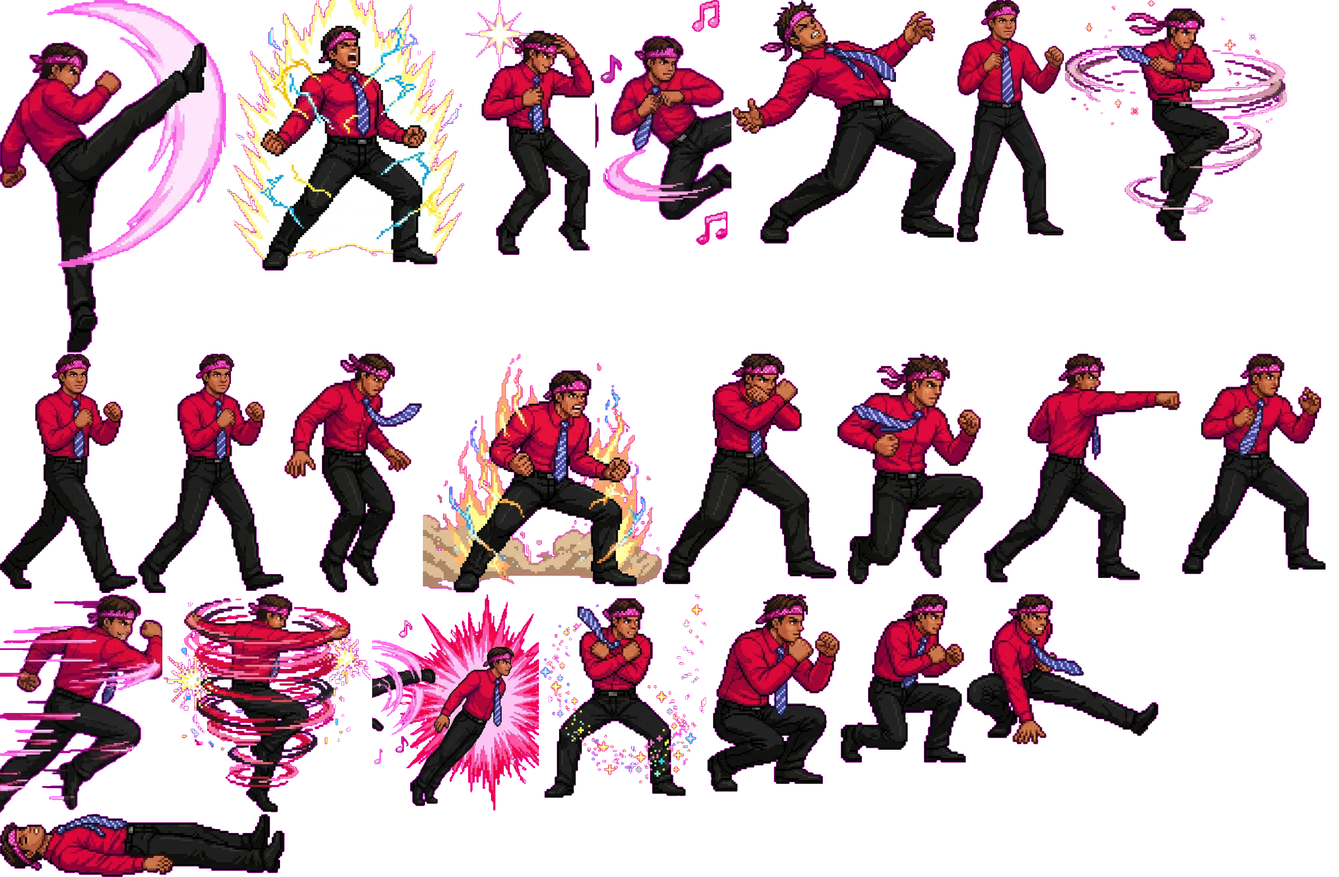
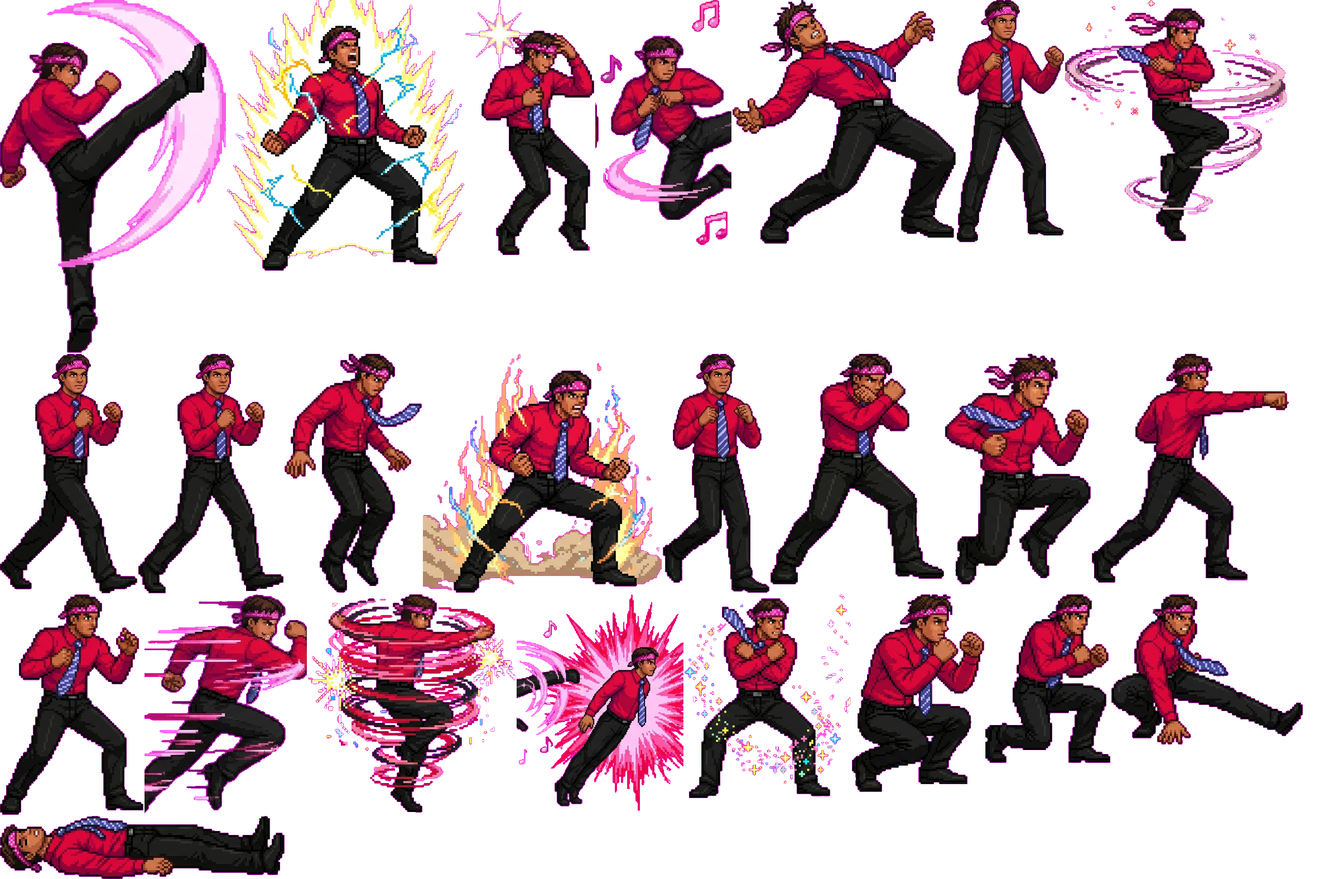
recarga de energía y paso lunar

diff --git a/game-v4.js b/game-v4.js
@@ -3,8 +3,8 @@ const $=s=>document.querySelector(s),canvas=$('#game'),ctx=canvas.getContext('2d
 const W=960,H=540,WORLD=1280,FLOOR=464,STEP=1/60,NAMES=['LANCHA','EL FIEL','KENT','PINGORDY'];
 const held=new Set(),pressed=new Set(),lastPad=[{},{}];
 const MAPS=[
- {left:'KeyA',right:'KeyD',jump:'KeyW',crouch:'KeyS',block:'KeyH',punch:'KeyJ',kick:'KeyK',overhead:'KeyU',special:'KeyL',super:'KeyI'},
- {left:'ArrowLeft',right:'ArrowRight',jump:'ArrowUp',crouch:'ArrowDown',block:'Numpad4',punch:'Numpad1',kick:'Numpad2',overhead:'Numpad5',special:'Numpad3',super:'Numpad0'}
+ {left:'KeyA',right:'KeyD',jump:'KeyW',crouch:'KeyS',block:'KeyH',punch:'KeyJ',kick:'KeyK',overhead:'KeyU',special:'KeyL',super:'KeyI',charge:'KeyO'},
+ {left:'ArrowLeft',right:'ArrowRight',jump:'ArrowUp',crouch:'ArrowDown',block:'Numpad4',punch:'Numpad1',kick:'Numpad2',overhead:'Numpad5',special:'Numpad3',super:'Numpad0',charge:'Numpad6'}
 ];
 // Hit rectangles are relative to the fighter's feet. Heights are positive up.
 const MOVES={
@@ -22,9 +22,14 @@ const MOVES={
 // Dash: double-tap a direction. Invulnerable only at the start, then a cooldown so it cannot be spammed.
 const DASH={time:.22,fwd:860,back:780,invulnerable:.16,cooldown:.6,window:.26,peak:215};
 // Crouch + double-tap: roll through the rival. Lancha curls into a ball, El Fiel does an athletic flip (drawn by transforming existing sprites).
+// Pingordy's dash is a moonwalk: slower glide so the footwork reads, facing the rival, steps reversed against the travel direction.
+const DASH_CHAR={3:{time:.36,fwd:500,back:470,invulnerable:.2}};
+function dashOf(p){return DASH_CHAR[p.id]||DASH}
+// Energy recharge: hold the button standing still; after a short wind-up the bar fills at `rate` per second.
+const CHARGE={startup:.3,rate:20};
 const ROLL=[{dur:.55,inv:.32,spins:2,scale:.85,arc:0,label:'¡RODADA!'},{dur:.65,inv:.42,spins:1,scale:.9,arc:95,label:'¡VOLTERETA!'},{dur:.65,inv:.42,spins:1,scale:.9,arc:95,label:'¡VOLTERETA!'},{dur:.65,inv:.42,spins:1,scale:.9,arc:95,label:'¡TORNADO!'}];
 let selected=0,mode='cpu',difficulty='normal',state='menu',paused=false,players=[],projectiles=[],particles=[],floaters=[];
-let round=1,clock=75,phaseTime=0,banner='',shake=0,freeze=0,acc=0,prev=0,tick=0,muted=false,audio,ready=false,bg,sprites=[],extraSprites=[],followSprites=[],showSprites=[],rollSprites=[],fielRoll=[],fielRollK=1,kentFrames={},pingFrames={},ljFrames={},fielSuper={},portrait=[];
+let round=1,clock=75,phaseTime=0,banner='',shake=0,freeze=0,acc=0,prev=0,tick=0,muted=false,audio,ready=false,bg,sprites=[],extraSprites=[],followSprites=[],showSprites=[],rollSprites=[],fielRoll=[],fielRollK=1,kentFrames={},pingFrames={},ljFrames={},lcFrames={},fielSuper={},portrait=[];
 const INTRO_DURATION=4.4,camera={x:WORLD/2,y:300,zoom:1.02};
 let superFX=null,reducedFX=false,ghosts=[],rings=[],introElapsed=0,fxClock=0;
 const POWER_NAMES=['BARRIGA DE LA RISA','RÁFAGA DEL POLO','PATADA DE FUEGO','TORNADO ESPIRAL'],INTRO_TEXT=['¡JA, JA, JA!','SIEMPRE FIEL','¡VAMOS!','¡HORA DE PELEAR!'];
@@ -48,14 +53,15 @@ function buildKent(atlas){for(const [name,m] of Object.entries(KENT_ATLAS)){cons
 // El Fiel's ultimate: backswing/swing frames (two variants), stored at 2x game size like Kent's atlas.
 const FIEL_SUPER_ATLAS={"backA":[0,0,239,505,0.683],"swingA":[241,91,394,414,0.395],"backB":[637,120,228,385,0.578],"swingB":[867,136,369,369,0.425]};
 // Characters drawn from their own atlas (Kent, Pingordy): same pose logic, one named frame per state.
-const PING_ATLAS={"mid":[0,0,405,632,0.187],"charge":[407,0,425,485,0.47],"introB":[834,0,231,457,0.495],"airKick":[1067,0,244,439,0.509],"hurt":[1313,0,400,437,0.373],"idle":[1715,0,192,434,0.427],"win":[1909,0,398,432,0.485],"walkA":[0,634,246,429,0.537],"walkB":[248,634,260,429,0.535],"jumpDown":[510,634,246,428,0.41],"introA":[758,634,428,428,0.524],"guard":[1188,634,311,413,0.453],"jumpUp":[1501,634,261,413,0.484],"punch":[1764,634,353,410,0.409],"overheadPrep":[2119,634,257,395,0.512],"superA":[0,1065,291,392,0.485],"flipSpin":[293,1065,372,391,0.489],"superB":[667,1065,299,388,0.623],"special":[968,1065,298,365,0.453],"crouch":[1268,1065,237,354,0.478],"low":[1507,1065,224,302,0.562],"sweep":[1733,1065,343,269,0.25],"down":[0,1459,510,113,0.496]};
+const PING_ATLAS={"mid":[0,0,405,632,0.187],"charge":[407,0,425,485,0.47],"introB":[834,0,231,457,0.495],"airKick":[1067,0,244,439,0.509],"hurt":[1313,0,400,437,0.373],"idle":[1715,0,192,434,0.427],"win":[1909,0,398,432,0.485],"walkA":[0,634,246,429,0.537],"walkB":[248,634,260,429,0.535],"jumpDown":[510,634,246,428,0.41],"introA":[758,634,428,428,0.524],"walkC":[1188,634,191,428,0.479],"guard":[1381,634,311,413,0.453],"jumpUp":[1694,634,261,413,0.484],"punch":[1957,634,353,410,0.409],"overheadPrep":[0,1065,257,395,0.512],"superA":[259,1065,291,392,0.485],"flipSpin":[552,1065,372,391,0.489],"superB":[926,1065,299,388,0.623],"special":[1227,1065,298,365,0.453],"crouch":[1527,1065,237,354,0.478],"low":[1766,1065,224,302,0.562],"sweep":[1992,1065,343,269,0.25],"down":[0,1462,510,113,0.496]};
 // Lancha's jump frames: crouch, up, dive (double jump), prone (landing after the dive), fall.
 const LJ_ATLAS={"up":[0,0,249,428,0.472],"fall":[251,0,272,403,0.55],"crouch":[525,0,232,332,0.47],"dive":[759,0,471,315,0.444],"prone":[1232,0,357,200,0.426]};
-const SETS=[null,null,{frames:kentFrames,scale:.85,extra:{introA:1.15,introB:1.15}},{frames:pingFrames,scale:1,extra:{introA:1.2,introB:1.2,win:1.2}}];
+const LC_ATLAS={"flex":[0,0,256,445,0.533],"bite":[258,0,207,441,0.441],"chew":[467,0,221,438,0.42],"ready":[690,0,241,430,0.431]};
+const SETS=[null,null,{frames:kentFrames,scale:.85,extra:{introA:1.15,introB:1.15},charge:['overheadPrep','overheadHit']},{frames:pingFrames,scale:1,extra:{introA:1.2,introB:1.2,win:1.2,charge:1.2},charge:['introA','charge']}];
 const FALLBACK={airKick:'flipSpin',flipTuck:'flipSpin',overheadHit:'punch',overheadPrep:'idle',crouchHurt:'hurt',landing:'crouch',special:'mid',superB:'superA',introB:'introA'};
 function resolvePose(id,name){const f=SETS[id].frames;while(!f[name]&&FALLBACK[name])name=FALLBACK[name];return name}
 function buildFielSuper(atlas){for(const [name,m] of Object.entries(FIEL_SUPER_ATLAS)){const c=document.createElement('canvas');c.width=m[2];c.height=m[3];c.getContext('2d').drawImage(atlas,m[0],m[1],m[2],m[3],0,0,m[2],m[3]);fielSuper[name]={image:c,height:m[3],anchor:m[4]}}}
-async function load(){try{const [arena,atlas,poses,follow,show,lancha,fiel,roll,flipPrep,flip,kentAtlas,superAtlas,pingAtlas,ljAtlas]=await Promise.all([image('assets/arena.png'),image('assets/fighters.png'),image('assets/moves-v3.png'),image('assets/follow-v3.png'),image('assets/show-v4.png'),image('assets/lancha-face.png'),image('assets/fiel-face.png'),image('assets/roll-lancha.webp'),image('assets/flip-fiel-prep.png'),image('assets/flip-fiel.png'),image('assets/kent.png'),image('assets/fiel-super.png'),image('assets/pingordy.png'),image('assets/lancha-jump.png')]);bg=arena;portrait=[lancha,fiel];const a=keyedCanvas(atlas),cuts=[[0,0,238,468],[240,0,240,468],[482,0,309,468],[785,0,290,468],[1062,0,225,468],[1280,0,256,468],[0,490,238,480],[240,490,235,480],[470,490,311,480],[780,490,294,480],[1028,490,276,480],[1295,490,241,480]];sprites=cuts.map(c=>crop(a,...c));extraSprites=extractPoses(poses);followSprites=extractPoses(follow,4);showSprites=extractPoses(show,4);rollSprites=extractPoses(roll,5);fielRoll=[...extractRow(flipPrep,1),...extractRow(flip,4)];fielRollK=258*.95/fielRoll[4].height;buildKent(kentAtlas);buildFielSuper(superAtlas);cutAtlas(pingAtlas,PING_ATLAS,pingFrames);cutAtlas(ljAtlas,LJ_ATLAS,ljFrames);ready=true;$('#status').textContent='v0.4 · Salto y patada aérea con poses distintas · Patada baja sin derribo · Cámara dinámica · Super cinematográfico.';}catch(e){$('#status').textContent=e.message+' · Usa el HTML autónomo o un servidor local.';console.error(e)}}
+async function load(){try{const [arena,atlas,poses,follow,show,lancha,fiel,roll,flipPrep,flip,kentAtlas,superAtlas,pingAtlas,ljAtlas,lcAtlas]=await Promise.all([image('assets/arena.png'),image('assets/fighters.png'),image('assets/moves-v3.png'),image('assets/follow-v3.png'),image('assets/show-v4.png'),image('assets/lancha-face.png'),image('assets/fiel-face.png'),image('assets/roll-lancha.webp'),image('assets/flip-fiel-prep.png'),image('assets/flip-fiel.png'),image('assets/kent.png'),image('assets/fiel-super.png'),image('assets/pingordy.png'),image('assets/lancha-jump.png'),image('assets/lancha-charge.png')]);bg=arena;portrait=[lancha,fiel];const a=keyedCanvas(atlas),cuts=[[0,0,238,468],[240,0,240,468],[482,0,309,468],[785,0,290,468],[1062,0,225,468],[1280,0,256,468],[0,490,238,480],[240,490,235,480],[470,490,311,480],[780,490,294,480],[1028,490,276,480],[1295,490,241,480]];sprites=cuts.map(c=>crop(a,...c));extraSprites=extractPoses(poses);followSprites=extractPoses(follow,4);showSprites=extractPoses(show,4);rollSprites=extractPoses(roll,5);fielRoll=[...extractRow(flipPrep,1),...extractRow(flip,4)];fielRollK=258*.95/fielRoll[4].height;buildKent(kentAtlas);buildFielSuper(superAtlas);cutAtlas(pingAtlas,PING_ATLAS,pingFrames);cutAtlas(ljAtlas,LJ_ATLAS,ljFrames);cutAtlas(lcAtlas,LC_ATLAS,lcFrames);ready=true;$('#status').textContent='v0.4 · Salto y patada aérea con poses distintas · Patada baja sin derribo · Cámara dinámica · Super cinematográfico.';}catch(e){$('#status').textContent=e.message+' · Usa el HTML autónomo o un servidor local.';console.error(e)}}
 function fighter(id,x){return{id,x,y:0,vy:0,vx:0,hp:100,hpTrail:100,energy:50,wins:0,face:x<WORLD/2?1:-1,action:'idle',age:0,move:null,hit:false,stun:0,guard:false,crouched:false,stance:0,walk:false,cooldown:0,combo:0,comboTime:0,ai:0,aiInput:{},seq:0,flash:0,downTime:0,invulnerable:0,buffer:null,bufferTime:0,lastLevel:'',levelTime:0,landTime:0,ghostTime:0,dashCool:0,dashDir:0,prevDir:{},tapAt:{left:-9,right:-9},jumpAt:-9,leap:false}}
 function pickRival(){if(rivalSel!=='auto')return rivalSel;const o=[...NAMES.keys()].filter(i=>i!==selected);return o[Math.floor(Math.random()*o.length)]}
 function start(){if(!ready)return;mode=$('#mode').value;difficulty=$('#difficulty').value;players=[fighter(selected,420),fighter(pickRival(),860)];round=1;paused=false;$('#menu').classList.add('hidden');canvas.focus();audio?.resume();sound(440,.15);beginRound()}
@@ -84,7 +90,7 @@ document.querySelectorAll('[data-key]').forEach(b=>{b.onpointerdown=e=>{e.preven
 // Standard-mapping pads (Xbox / DualShock / DualSense): the first connected pad drives P1, the second P2.
 const sys={};
 function pads(){return[...(navigator.getGamepads?.()??[])].filter(g=>g?.connected)}
-function input(i){const out={},pad=pads()[i],b=n=>!!pad?.buttons[n]?.pressed,ax=n=>pad?.axes[n]??0,values={left:ax(0)<-.3||b(14),right:ax(0)>.3||b(15),jump:b(0)||b(12)||ax(1)<-.6,crouch:ax(1)>.4||b(13),block:b(4)||b(6),punch:b(2),kick:b(1),overhead:b(7),special:b(3),super:b(5)};for(const [a,k]of Object.entries(MAPS[i])){out[a]=held.has(k)||values[a];out[a+'Press']=pressed.has(k)||values[a]&&!lastPad[i][a]}lastPad[i]={...values};return out}
+function input(i){const out={},pad=pads()[i],b=n=>!!pad?.buttons[n]?.pressed,ax=n=>pad?.axes[n]??0,values={left:ax(0)<-.3||b(14),right:ax(0)>.3||b(15),jump:b(0)||b(12)||ax(1)<-.6,crouch:ax(1)>.4||b(13),block:b(4),charge:b(6),punch:b(2),kick:b(1),overhead:b(7),special:b(3),super:b(5)};for(const [a,k]of Object.entries(MAPS[i])){out[a]=held.has(k)||values[a];out[a+'Press']=pressed.has(k)||values[a]&&!lastPad[i][a]}lastPad[i]={...values};return out}
 // Menu, pause and navigation with any connected pad (edge-triggered; Options = start/pause, Share = back to menu).
 function padMenu(){const list=pads(),btn=n=>list.some(g=>g.buttons[n]?.pressed),axis=n=>list.reduce((m,g)=>Math.abs(g.axes[n]??0)>Math.abs(m)?g.axes[n]:m,0),
  now={left:btn(14)||axis(0)<-.5,right:btn(15)||axis(0)>.5,up:btn(12)||axis(1)<-.5,down:btn(13)||axis(1)>.5,prev:btn(4),next:btn(5),l2:btn(6),r2:btn(7),ok:btn(0),start:btn(9),back:btn(8)},hit=k=>now[k]&&!sys[k];
@@ -95,9 +101,9 @@ function padMenu(){const list=pads(),btn=n=>list.some(g=>g.buttons[n]?.pressed),
  Object.assign(sys,now)}
 function padBadge(){const el=$('#pad'),list=pads(),g=list[0];if(!el)return;el.classList.toggle('on',!!g);el.textContent=g?'🎮 '+(/054c/i.test(g.id)?'DualShock / DualSense':g.id.replace(/\s*\(.*$/,''))+(list.length>1?' + '+(list.length-1):'')+(g.mapping==='standard'?'':' · mapeo no estándar'):'🎮 Pulsa un botón del mando'}
 addEventListener('gamepadconnected',padBadge);addEventListener('gamepaddisconnected',()=>{padBadge();if(state==='fight')paused=true});
-function aiInput(p,o,dt){p.ai-=dt;if(p.ai>0){const out={...p.aiInput};for(const key of ['punch','kick','overhead','special','super','jump'])out[key+'Press']=false;return out}const hard=difficulty==='hard',easy=difficulty==='easy',d=Math.abs(o.x-p.x),r=Math.random(),a={};p.ai=easy?.42:hard?.17:.28;
+function aiInput(p,o,dt){if(p.aiCharge>0){p.aiCharge-=dt;if(Math.abs(o.x-p.x)>230&&p.energy<100&&o.action!=='attack')return{charge:true};p.aiCharge=0}p.ai-=dt;if(p.ai>0){const out={...p.aiInput};for(const key of ['punch','kick','overhead','special','super','jump'])out[key+'Press']=false;return out}const hard=difficulty==='hard',easy=difficulty==='easy',d=Math.abs(o.x-p.x),r=Math.random(),a={};p.ai=easy?.42:hard?.17:.28;
  if(d>140){a.left=p.x>o.x;a.right=p.x<o.x;if(p.id>0&&d>230&&r<.27)a.specialPress=true}else if(o.action==='attack'&&r<(hard?.75:.42)){a.block=true;a.crouch=o.move?.level==='low'}else if(r<.27){a.punchPress=true;a.crouch=Math.random()<.3}else if(r<.56){a.kickPress=true;a.crouch=Math.random()<.36}else if(r<.72)a.overheadPress=true;else a.specialPress=true;
- if(p.energy>=100&&r<.22)a.superPress=true;const shot=projectiles.find(s=>s.owner!==p&&Math.sign(s.vx)===Math.sign(p.x-s.x)),gap=shot?Math.abs(shot.x-p.x):0;if(shot&&gap>90&&gap<230&&Math.random()<(hard?.85:easy?.3:.6)){a.left=a.right=false;a.jumpPress=true;a.jump=true}p.aiInput={...a};return a;}
+ if(p.energy>=100&&r<.22)a.superPress=true;const shot=projectiles.find(s=>s.owner!==p&&Math.sign(s.vx)===Math.sign(p.x-s.x)),gap=shot?Math.abs(shot.x-p.x):0;if(shot&&gap>90&&gap<230&&Math.random()<(hard?.85:easy?.3:.6)){a.left=a.right=false;a.jumpPress=true;a.jump=true}if(!easy&&p.energy<35&&d>320&&r<.1&&!shot){p.aiCharge=2.5;return{charge:true}}p.aiInput={...a};return a;}
 function trainingInput(){const v=$('#trainingGuard')?.value??'idle';return v==='stand'?{block:true}:v==='crouch'?{crouch:true}:v==='lowguard'?{block:true,crouch:true}:v==='jump'?{jumpPress:true}:{};}
 function enqueue(p,a){for(const key of ['super','special','overhead','kick','punch','jump'])if(a[key+'Press']){p.buffer=key;p.bufferTime=.16;break}}
 function chooseMove(p,key){if(key==='super')return p.y===0?'super':null;if(key==='special')return p.y===0?(p.id===0?'belly':'wave'):null;if(key==='overhead')return p.y>0?'airKick':'overhead';if(key==='kick')return p.y>0?'airKick':p.crouched?'sweep':'mid';if(key==='punch')return p.y>0?'airPunch':p.crouched?'low':'high';return null;}
@@ -134,7 +140,7 @@ function advanceAttack(p,o,dt){const m=p.move;p.age+=dt;const active=p.age>=m.st
 }
 function startRoll(p,o,dir){const r=ROLL[p.id],toward=dir===(o.x>p.x?1:-1),goal=Math.max(65,Math.min(WORLD-65,toward&&Math.abs(o.x-p.x)<260?o.x+dir*95:p.x+dir*230));
  Object.assign(p,{action:'roll',age:0,dashDir:dir,crouched:true,buffer:null,bufferTime:0,invulnerable:r.inv,dashCool:1,rollDur:r.dur,rollSpeed:(goal-p.x)/r.dur});floaters.push({s:r.label,x:p.x,y:FLOOR-215,t:.6,c:'#d9d2ff'});rings.push({x:p.x,y:FLOOR-8,t:.25,color:'#d9d2ff'});sound(p.id?330:170,.12,'triangle')}
-function detectDash(p,a,i,o){const human=i===0||mode==='local';for(const [dir,key]of [[-1,'left'],[1,'right']]){const down=!!a[key];if(human&&down&&!p.prevDir[key]){if(tick-p.tapAt[key]<DASH.window&&p.action==='idle'&&p.stun<=0&&p.y===0&&p.dashCool<=0&&!p.guard){p.tapAt[key]=-9;if(a.crouch)startRoll(p,o,dir);else{Object.assign(p,{action:'dash',age:0,dashDir:dir,crouched:false,buffer:null,bufferTime:0,invulnerable:DASH.invulnerable,dashCool:DASH.cooldown});rings.push({x:p.x,y:FLOOR-8,t:.25,color:'#d9d2ff'});sound(260,.07,'triangle')}}else p.tapAt[key]=tick}p.prevDir[key]=down}}
+function detectDash(p,a,i,o){const human=i===0||mode==='local';for(const [dir,key]of [[-1,'left'],[1,'right']]){const down=!!a[key];if(human&&down&&!p.prevDir[key]){if(tick-p.tapAt[key]<DASH.window&&p.action==='idle'&&p.stun<=0&&p.y===0&&p.dashCool<=0&&!p.guard){p.tapAt[key]=-9;if(a.crouch)startRoll(p,o,dir);else{Object.assign(p,{action:'dash',age:0,dashDir:dir,crouched:false,buffer:null,bufferTime:0,invulnerable:dashOf(p).invulnerable,dashCool:DASH.cooldown});if(p.id===3)floaters.push({s:'¡PASO LUNAR!',x:p.x,y:FLOOR-215,t:.6,c:'#ffd0e6'});rings.push({x:p.x,y:FLOOR-8,t:.25,color:'#d9d2ff'});sound(260,.07,'triangle')}}else p.tapAt[key]=tick}p.prevDir[key]=down}}
 // Double jump: a second jump press anywhere in the air (also cancelling an air attack) rises to DASH.peak.
 // No direction = straight up; direction away = move that way; direction toward a near rival = land behind them. No body push while leaping.
 function detectLeap(p,a,i,o){const airAttack=p.action==='attack'&&['airKick','airPunch'].includes(p.moveId);if(!(i===0||mode==='local')||!a.jumpPress||p.leap||p.y<=0||!(p.action==='idle'||airAttack)||p.stun>0)return;if(airAttack){p.action='idle';p.move=null;p.age=0}
@@ -151,10 +157,12 @@ function step(dt){if(paused||state==='menu')return;tick+=dt;updatePresentation(d
  for(let i=0;i<players.length;i++){if(state!=='fight')break;const p=players[i],o=players[1-i],a=inputs[i];
   if(p.action==='down'){p.age+=dt;p.downTime-=dt;if(p.downTime<=0){p.action='idle';p.invulnerable=.24;p.age=0}}
   else if(p.action==='hurt'){p.age+=dt;if(p.stun<=0){p.action='idle';p.move=null;p.age=0}}
-  else if(p.action==='dash'){p.age+=dt;p.x+=p.dashDir*(p.dashDir===p.face?DASH.fwd:DASH.back)*dt;if(p.age>=DASH.time){p.action='idle';p.age=0;p.cooldown=.1}}
+  else if(p.action==='dash'){p.age+=dt;p.x+=p.dashDir*(p.dashDir===p.face?dashOf(p).fwd:dashOf(p).back)*dt;if(p.age>=dashOf(p).time){p.action='idle';p.age=0;p.cooldown=.1}}
   else if(p.action==='roll'){p.age+=dt;p.x+=p.rollSpeed*dt;if(p.age>=p.rollDur){p.action='idle';p.age=0;p.cooldown=.2}}
+  else if(p.action==='charge'){p.age+=dt;if(!a.charge||a.left||a.right||a.crouch||a.block||a.jumpPress){p.action='idle';p.age=0;p.cooldown=.12}
+   else if(p.age>CHARGE.startup){p.energy=Math.min(100,p.energy+CHARGE.rate*dt);if(Math.floor(p.age*4)!==Math.floor((p.age-dt)*4))sound(260+p.energy*3,.07,'triangle',.02);if(Math.random()<dt*14)particles.push({x:p.x+(Math.random()-.5)*70,y:FLOOR-p.y-10-Math.random()*150,vx:0,vy:-70-Math.random()*70,t:.55,c:THEMES[p.id].color})}}
   else if(p.action==='attack')advanceAttack(p,o,dt);
-  else if(p.stun<=0){if(p.buffer==='jump'&&p.y===0&&!p.guard){p.jumpAt=tick;p.vy=520;p.vx=((a.right?1:0)-(a.left?1:0))*(p.id===0?185:215);p.buffer=null;p.bufferTime=0;p.crouched=false;sound(300,.08,'triangle')}else if(p.buffer&&p.buffer!=='jump'){const move=chooseMove(p,p.buffer);if(attack(p,move)){p.buffer=null;p.bufferTime=0}}
+  else if(p.stun<=0){if(a.charge&&p.action==='idle'&&p.y===0&&!p.guard&&!p.crouched&&!a.left&&!a.right&&!p.buffer){p.action='charge';p.age=0;p.move=null;sound(220,.1,'triangle',.03)}else if(p.buffer==='jump'&&p.y===0&&!p.guard){p.jumpAt=tick;p.vy=520;p.vx=((a.right?1:0)-(a.left?1:0))*(p.id===0?185:215);p.buffer=null;p.bufferTime=0;p.crouched=false;sound(300,.08,'triangle')}else if(p.buffer&&p.buffer!=='jump'){const move=chooseMove(p,p.buffer);if(attack(p,move)){p.buffer=null;p.bufferTime=0}}
    if(p.action==='idle'&&!p.guard&&!p.crouched&&p.y===0){const v=(a.right?1:0)-(a.left?1:0);p.x+=v*(p.id===0?180:215)*dt;p.walk=!!v}
   }
   const airborne=p.y>0||p.vy>0;if(airborne){p.x+=p.vx*dt;p.y+=p.vy*dt;p.vy-=1200*dt;if(p.y<=0){p.y=0;p.vy=0;p.vx=0;p.landTime=.12;if(p.leap){p.leap=false;p.proneTime=.18;p.cooldown=Math.max(p.cooldown,.1)}sparks(p.x,FLOOR,false);if(p.action==='attack'&&['airKick','airPunch'].includes(p.moveId)){p.action='idle';p.move=null;p.cooldown=.09}}}else{p.y=0;p.vy=0}
@@ -175,7 +183,7 @@ function kentPose(p){const m=p.move;
  if((state==='round'||state==='match')&&p.hp>0&&p.hp===Math.max(...players.map(k=>k.hp)))return{kent:SETS[p.id].frames.win?'win':'introB'};
  if(cinematic()&&superFX.owner===p)return{kent:SETS[p.id].frames.charge?'charge':'superA'};
  if(p.action==='roll')return{kent:kentRollFrame(p)};
- if(p.action==='dash')return{kent:Math.floor(tick*20)%2?'walkA':'walkB'};
+ if(p.action==='dash'){if(p.id===3&&SETS[3].frames.walkC){const seq=['walkA','walkC','walkB'],i=Math.floor(p.age*10)%3;return{kent:seq[p.dashDir===p.face?(3-i)%3:i]}}return{kent:Math.floor(tick*20)%2?'walkA':'walkB'}}
  if(p.action==='attack'){const total=m.startup+m.active+m.recovery,preparing=p.age<m.startup*.57,recovering=p.age>total-m.recovery*.65;
   if(preparing||recovering){if(m.crouched)return{kent:'crouch'};if(p.y>0)return{kent:p.vy>0?'jumpUp':'jumpDown'};if(p.moveId==='overhead'&&!recovering)return{kent:'overheadPrep'};return{kent:'idle'}}
   if(m.frame==='punch')return{kent:'punch'};if(m.frame==='mid')return{kent:'mid'};if(m.frame==='low')return{kent:'low'};if(m.frame==='sweep')return{kent:'sweep'};if(m.frame==='air')return{kent:'airKick'};if(m.frame==='overhead')return{kent:'overheadHit'};
@@ -189,13 +197,17 @@ function fielSuperPose(p){const m=p.move,t=p.age-m.startup;if(p.age>=m.startup+m
 function lanchaJumpPose(p){if(state!=='fight')return null;if(p.proneTime>0)return{lj:'prone'};
  if(p.y>0&&(p.action==='idle'||p.action==='attack')){if(p.action==='attack'){const m=p.move,total=m.startup+m.active+m.recovery;if(!(p.age<m.startup*.57||p.age>total-m.recovery*.65))return null}return{lj:p.leap?'dive':p.vy>0?'up':'fall'}}
  if(p.landTime>0&&p.action==='idle'&&p.y===0)return{lj:'crouch'};return null}
-function pose(p){if(p.id===1&&p.action==='attack'&&p.moveId==='super'&&fielSuper.backA){const w=fielSuperPose(p);if(w)return w}if(SETS[p.id]&&SETS[p.id].frames.idle){const w=kentPose(p);w.kent=resolvePose(p.id,w.kent);return w}if(p.id===0&&ljFrames.up){const w=lanchaJumpPose(p);if(w)return w}if(state==='intro'&&phaseTime>.9)return{show:2+(Math.floor(introElapsed*(p.id?1.4:2.2))%2)};if((state==='round'||state==='match')&&p.hp>0&&p.hp===Math.max(...players.map(k=>k.hp)))return{show:3};if(cinematic()&&superFX.owner===p)return{follow:3};if(p.action==='attack'){const m=p.move;const total=m.startup+m.active+m.recovery;const preparing=p.age<m.startup*.57,recovering=p.age>total-m.recovery*.65;if(preparing||recovering){if(m.crouched)return{extra:0};if(p.y>0)return{show:p.vy>0?0:1};if(p.moveId==='overhead'&&!recovering)return{follow:0};return{base:0}}if(m.frame==='punch')return{base:2};if(m.frame==='mid')return{extra:3};if(m.frame==='low')return{extra:1};if(m.frame==='sweep')return{extra:2};if(m.frame==='air')return{extra:4};if(m.frame==='overhead')return{extra:5};if(Math.floor(p.age*9)%2===1)return{follow:3};return{base:4}}
+// Recharge pose per character: Lancha eats a burger (own frames), Pingordy/Kent alternate their power-up frames, El Fiel flexes.
+function chargePose(p){if(p.id===0&&lcFrames.ready){const t=Math.max(0,p.age-.25)%1.3;return{lc:p.age<.25?'ready':t<.4?'bite':t<.8?'chew':'flex'}}
+ if(p.id===1)return{show:p.age<.3?2:(Math.floor((p.age-.3)*2.5)%2?2:3)};
+ const c=SETS[p.id]&&SETS[p.id].charge;if(c)return{kent:resolvePose(p.id,c[Math.floor(p.age*3)%2])};return null}
+function pose(p){if(p.action==='charge'){const w=chargePose(p);if(w)return w}if(p.id===1&&p.action==='attack'&&p.moveId==='super'&&fielSuper.backA){const w=fielSuperPose(p);if(w)return w}if(SETS[p.id]&&SETS[p.id].frames.idle){const w=kentPose(p);w.kent=resolvePose(p.id,w.kent);return w}if(p.id===0&&ljFrames.up){const w=lanchaJumpPose(p);if(w)return w}if(state==='intro'&&phaseTime>.9)return{show:2+(Math.floor(introElapsed*(p.id?1.4:2.2))%2)};if((state==='round'||state==='match')&&p.hp>0&&p.hp===Math.max(...players.map(k=>k.hp)))return{show:3};if(cinematic()&&superFX.owner===p)return{follow:3};if(p.action==='attack'){const m=p.move;const total=m.startup+m.active+m.recovery;const preparing=p.age<m.startup*.57,recovering=p.age>total-m.recovery*.65;if(preparing||recovering){if(m.crouched)return{extra:0};if(p.y>0)return{show:p.vy>0?0:1};if(p.moveId==='overhead'&&!recovering)return{follow:0};return{base:0}}if(m.frame==='punch')return{base:2};if(m.frame==='mid')return{extra:3};if(m.frame==='low')return{extra:1};if(m.frame==='sweep')return{extra:2};if(m.frame==='air')return{extra:4};if(m.frame==='overhead')return{extra:5};if(Math.floor(p.age*9)%2===1)return{follow:3};return{base:4}}
  if(p.action==='roll')return p.id===0?(rollSprites.length?{roll:rollFrame(p)}:{extra:0}):(fielRoll.length?{fiel:fielFrame(p)}:{show:0});if(p.action==='dash')return{base:Math.floor(tick*20)%2};if(p.action==='hurt')return p.crouched?{follow:1}:{base:5};if(p.action==='down')return{base:5};if(p.landTime>0)return{follow:2};if(p.crouched||p.stance>.5)return{extra:0};if(p.y>0)return{show:p.vy>0?0:1};return{base:p.walk?Math.floor(tick*9)%2:0};}
-function drawFighter(p,ghost=0){if(!sprites.length)return;const which=pose(p),usingExtra=which.extra!==undefined,usingFollow=which.follow!==undefined,usingShow=which.show!==undefined,usingRoll=which.roll!==undefined,usingFiel=which.fiel!==undefined,usingKent=which.kent!==undefined,usingFsup=which.fsup!==undefined,usingLj=which.lj!==undefined;let im,h,w,anchor=.5;if(usingKent){const s=SETS[p.id].frames[which.kent];im=s.image;h=s.height/2*SETS[p.id].scale*(SETS[p.id].extra[which.kent]||1);w=im.width/im.height*h;anchor=s.anchor}else if(usingFsup){const s=fielSuper[which.fsup];im=s.image;h=s.height/2;w=im.width/im.height*h;anchor=s.anchor}else if(usingLj){const s=ljFrames[which.lj];im=s.image;h=s.height/2;w=im.width/im.height*h;anchor=s.anchor}else if(usingRoll){const s=rollSprites[which.roll];im=s.image;h=s.height/400*235*1.15;w=im.width/im.height*h}else if(usingFiel){const s=fielRoll[which.fiel];im=s.image;h=s.height*fielRollK;w=im.width/im.height*h}else if(usingExtra||usingFollow||usingShow){const s=usingShow?showSprites[p.id*4+which.show]:usingFollow?followSprites[p.id*4+which.follow]:extraSprites[p.id*6+which.extra];im=s.image;h=s.height/400*235;w=im.width/im.height*h;if(which.extra===1)anchor=.4;if(which.extra===2||which.extra===3||which.extra===4)anchor=.37;}else{im=sprites[p.id*6+which.base];h=258;w=im.width/im.height*h;anchor=which.base===2?.39:.5;}
+function drawFighter(p,ghost=0){if(!sprites.length)return;const which=pose(p),usingExtra=which.extra!==undefined,usingFollow=which.follow!==undefined,usingShow=which.show!==undefined,usingRoll=which.roll!==undefined,usingFiel=which.fiel!==undefined,usingKent=which.kent!==undefined,usingFsup=which.fsup!==undefined,usingLj=which.lj!==undefined,usingLc=which.lc!==undefined;let im,h,w,anchor=.5;if(usingKent){const s=SETS[p.id].frames[which.kent];im=s.image;h=s.height/2*SETS[p.id].scale*(SETS[p.id].extra[which.kent]||1);w=im.width/im.height*h;anchor=s.anchor}else if(usingFsup){const s=fielSuper[which.fsup];im=s.image;h=s.height/2;w=im.width/im.height*h;anchor=s.anchor}else if(usingLj){const s=ljFrames[which.lj];im=s.image;h=s.height/2;w=im.width/im.height*h;anchor=s.anchor}else if(usingLc){const s=lcFrames[which.lc];im=s.image;h=s.height/2;w=im.width/im.height*h;anchor=s.anchor}else if(usingRoll){const s=rollSprites[which.roll];im=s.image;h=s.height/400*235*1.15;w=im.width/im.height*h}else if(usingFiel){const s=fielRoll[which.fiel];im=s.image;h=s.height*fielRollK;w=im.width/im.height*h}else if(usingExtra||usingFollow||usingShow){const s=usingShow?showSprites[p.id*4+which.show]:usingFollow?followSprites[p.id*4+which.follow]:extraSprites[p.id*6+which.extra];im=s.image;h=s.height/400*235;w=im.width/im.height*h;if(which.extra===1)anchor=.4;if(which.extra===2||which.extra===3||which.extra===4)anchor=.37;}else{im=sprites[p.id*6+which.base];h=258;w=im.width/im.height*h;anchor=which.base===2?.39:.5;}
  const bob=p.action==='idle'&&!p.crouched?Math.sin(tick*5)*2:0;ctx.save();ctx.translate(Math.round(p.x),Math.round(FLOOR-p.y+bob));ctx.scale(p.face,1);
  if(state==='intro'&&phaseTime>.9){if(p.id===0){ctx.rotate(Math.sin(introElapsed*14)*.025);ctx.translate(0,Math.sin(introElapsed*14)*1.5)}else ctx.scale(1+Math.sin(introElapsed*4)*.012,1)}
  else if(p.action==='down'&&!usingKent){const t=Math.min(1,p.age/.16);ctx.translate(0,-22);ctx.rotate(-Math.PI/2*t);ctx.scale(.85,.85)}
- else if(p.action==='attack'){const m=p.move,phase=p.age<m.startup?p.age/m.startup:p.age<m.startup+m.active?1:1-(p.age-m.startup-m.active)/m.recovery;ctx.translate(Math.sin(Math.max(0,phase)*Math.PI/2)*7,0);if(p.moveId==='super'&&p.id===0)ctx.rotate(Math.sin(p.age*25)*.045);if(p.moveId==='super'&&p.id===1)ctx.rotate(Math.sin(p.age*18)*.025);if(p.moveId==='overhead')ctx.rotate((phase-.5)*.13)}else if(p.action==='hurt')ctx.rotate(-.07);else if(p.action==='dash')ctx.rotate(p.dashDir===p.face?.1:-.07);else if(p.action==='roll'&&(usingFiel||usingKent)){ctx.translate(0,-flipLift(p))}else if(p.action==='roll'&&(p.id?!fielRoll.length:!rollSprites.length)){const r=ROLL[p.id],prog=Math.min(1,p.age/r.dur);ctx.translate(0,-h*r.scale/2-Math.sin(prog*Math.PI)*r.arc);ctx.rotate(p.dashDir*p.face*prog*r.spins*Math.PI*2);ctx.scale(r.scale,r.scale);ctx.translate(0,h/2)}
+ else if(p.action==='attack'){const m=p.move,phase=p.age<m.startup?p.age/m.startup:p.age<m.startup+m.active?1:1-(p.age-m.startup-m.active)/m.recovery;ctx.translate(Math.sin(Math.max(0,phase)*Math.PI/2)*7,0);if(p.moveId==='super'&&p.id===0)ctx.rotate(Math.sin(p.age*25)*.045);if(p.moveId==='super'&&p.id===1)ctx.rotate(Math.sin(p.age*18)*.025);if(p.moveId==='overhead')ctx.rotate((phase-.5)*.13)}else if(p.action==='hurt')ctx.rotate(-.07);else if(p.action==='charge'){ctx.translate(Math.sin(p.age*70)*1.6,0)}else if(p.action==='dash'&&p.id===3){ctx.rotate(-.05);ctx.translate(0,-Math.abs(Math.sin(p.age*24))*4)}else if(p.action==='dash')ctx.rotate(p.dashDir===p.face?.1:-.07);else if(p.action==='roll'&&(usingFiel||usingKent)){ctx.translate(0,-flipLift(p))}else if(p.action==='roll'&&(p.id?!fielRoll.length:!rollSprites.length)){const r=ROLL[p.id],prog=Math.min(1,p.age/r.dur);ctx.translate(0,-h*r.scale/2-Math.sin(prog*Math.PI)*r.arc);ctx.rotate(p.dashDir*p.face*prog*r.spins*Math.PI*2);ctx.scale(r.scale,r.scale);ctx.translate(0,h/2)}
  if(ghost)ctx.globalAlpha=ghost;else if(p.invulnerable>0&&p.action!=='roll'&&Math.floor(tick*18)%2===0)ctx.globalAlpha=.5;else ctx.globalAlpha=p.flash>0?.55:1;ctx.drawImage(im,-w*anchor,-h,w,h);ctx.restore();if(ghost)return;
  if(p.guard){ctx.strokeStyle=p.crouched?'#82f4cb':'#9fe9ff';ctx.lineWidth=3;ctx.beginPath();ctx.ellipse(p.x+p.face*35,FLOOR-p.y-(p.crouched?62:115),23,p.crouched?46:76,0,p.face>0?-Math.PI/2:Math.PI/2,p.face>0?Math.PI/2:Math.PI*1.5);ctx.stroke()}
  if(p.combo>=2&&!cinematic())text(p.combo+' HIT',p.x,FLOOR-p.y-245,20,'#ffe097','center');if(p.levelTime>0&&mode==='training'&&p.moveId!=='super')text(p.lastLevel,p.x,FLOOR-p.y-(p.crouched?135:245),13,'#c5ffea','center');
@@ -214,6 +226,7 @@ function drawWorld(dt){ctx.save();ctx.translate(W/2,H/2);ctx.scale(camera.zoom,c
  // Sparse floating dust gives depth without masking silhouettes.
  ctx.save();ctx.globalAlpha=.26;for(let i=0;i<22;i++){const x=(i*173+fxClock*(5+i%3))%(WORLD+200)-100,y=90+(i*97+Math.sin(fxClock*.45+i)*12)%380;rect(x,y,2,2,i%2?'#ffe0ab':'#b7a3e5')}ctx.restore();drawStorm();
  for(const p of players){ctx.fillStyle='#100b2266';ctx.beginPath();ctx.ellipse(p.x,FLOOR+3,Math.max(38,66-p.y*.1),12,0,0,7);ctx.fill()}
+ for(const p of players)if(p.action==='charge'&&p.age>.2){const t=THEMES[p.id],r=60+Math.sin(p.age*10)*8,g=ctx.createRadialGradient(p.x,FLOOR-95,10,p.x,FLOOR-95,r+60);g.addColorStop(0,t.color+'88');g.addColorStop(1,t.color+'00');ctx.fillStyle=g;ctx.fillRect(p.x-140,FLOOR-260,280,300)}
  for(const g of ghosts)drawFighter(g.fighter,g.t*.8);
  players.slice().sort((a,b)=>a.y-b.y).forEach(p=>drawFighter(p));
  for(const s of projectiles){const color=s.super?'#d7a4ff':['#8ef4ff','#8ef4ff','#ff9a5e','#ff7bd5'][s.owner.id],dir=Math.sign(s.vx);ctx.save();ctx.shadowColor=color;ctx.shadowBlur=s.super?24:12;ctx.fillStyle=color;ctx.beginPath();ctx.moveTo(s.x+dir*27,s.y);ctx.quadraticCurveTo(s.x,s.y-24,s.x-dir*60,s.y);ctx.quadraticCurveTo(s.x,s.y+24,s.x+dir*27,s.y);ctx.fill();ctx.fillStyle='#f6f0ff';ctx.beginPath();ctx.ellipse(s.x+dir*5,s.y,14,9,0,0,7);ctx.fill();ctx.globalAlpha=.4;for(let i=0;i<3;i++)rect(s.x-dir*(55+i*16),s.y-9+i*8,22,2,color);ctx.restore()}

diff --git a/index.html b/index.html
@@ -2,8 +2,8 @@
 <html lang="es"><head><meta charset="utf-8"><meta name="viewport" content="width=device-width,initial-scale=1"><title>Manchester FISI Fighter · 0.4</title><link rel="stylesheet" href="style.css"><link rel="stylesheet" href="combat-v3.css"></head><body><main>
 <header><div><small>TORNEO DEL CAMPUS · EDICIÓN ARCADE 0.4</small><h1>MANCHESTER <em>FISI FIGHTER</em></h1></div><div><span id="pad" class="pad" aria-live="polite"></span> <button id="effects">FX: intensos</button> <button id="sound">♫ Sonido: ON</button> <button id="full">⛶ Pantalla</button></div></header>
 <div class="screen"><canvas id="game" width="960" height="540" tabindex="0" aria-label="Juego de lucha. A D mover, W saltar, S agacharse, H defender, J alto, K medio, U descendente."></canvas><div id="menu"><div class="panel"><div class="eyebrow">PRESENTACIONES · SUPERS CINEMATOGRÁFICOS · CÁMARA DINÁMICA</div><div class="title">MANCHESTER<br>FISI FIGHTER</div><div class="rowlabel">TU PERSONAJE</div><div class="cards" id="p1cards"></div><div class="rowlabel" id="rivalLabel">RIVAL</div><div class="cards mini" id="rivalcards"></div><div class="choices"><select id="mode" aria-label="Modo de juego"><option value="cpu">VS CPU</option><option value="local">2 jugadores</option><option value="training">Entrenamiento</option></select><select id="difficulty" aria-label="Dificultad"><option value="normal">CPU normal</option><option value="easy">CPU fácil</option><option value="hard">CPU difícil</option></select><button id="start" class="primary">¡A PELEAR!</button></div><small>S agacharse · H defender · J alto · K medio · U descendente<br>S + J golpe bajo · S + K patada baja · W, luego K: patada aérea</small><small>Doble toque ← → esquiva (dash) · S + doble toque: rodada o voltereta tras el rival · saltar otra vez en el aire: doble salto, mucho más alto</small><small>🎮 Mando: ◀ ▶ tú · L2 / R2 rival · ▲ ▼ modo · L1 / R1 dificultad · ✕ u OPTIONS para pelear</small></div></div></div>
-<div class="foot"><span><kbd>A</kbd><kbd>D</kbd> mover · <kbd>W</kbd> saltar · <kbd>S</kbd> agacharse · <kbd>H</kbd> defender · <kbd>J</kbd> alto · <kbd>K</kbd> medio · <kbd>U</kbd> descendente · <kbd>L</kbd> especial · <kbd>I</kbd> super</span><span><kbd>Esc</kbd> pausa · <kbd>R</kbd> menú</span></div>
+<div class="foot"><span><kbd>A</kbd><kbd>D</kbd> mover · <kbd>W</kbd> saltar · <kbd>S</kbd> agacharse · <kbd>H</kbd> defender · <kbd>J</kbd> alto · <kbd>K</kbd> medio · <kbd>U</kbd> descendente · <kbd>L</kbd> especial · <kbd>I</kbd> super · <kbd>O</kbd> recargar</span><span><kbd>Esc</kbd> pausa · <kbd>R</kbd> menú</span></div>
 <div id="status">Cargando arte…</div>
-<div class="touch"><div><button data-key="KeyA" aria-label="Izquierda">◀</button><button data-key="KeyD" aria-label="Derecha">▶</button><button data-key="KeyW" aria-label="Saltar">↑</button><button data-key="KeyS" aria-label="Agacharse">↓</button><button data-key="KeyH" aria-label="Bloquear">🛡</button></div><div><button data-key="KeyJ">ALTO</button><button data-key="KeyK">MEDIO</button><button data-key="KeyU">↓ GOLPE</button><button data-key="KeyL">ESP</button><button data-key="KeyI">SUPER</button></div></div>
-<details class="guide"><summary>Guía de combate y práctica</summary><div class="practice"><label>Rival de entrenamiento <select id="trainingGuard"><option value="idle">Quieto</option><option value="stand">Bloqueo de pie</option><option value="crouch">Agachado sin defensa</option><option value="lowguard">Bloqueo agachado</option><option value="jump">Saltando</option></select></label><label><input type="checkbox" id="hitboxes"> Mostrar zonas de impacto</label></div><table><thead><tr><th>Ataque</th><th>Jugador 1</th><th>Cómo defenderlo</th></tr></thead><tbody><tr><td>Alto: puño</td><td>J</td><td>H de pie, o agáchate con S para esquivarlo.</td></tr><tr><td>Medio: patada</td><td>K</td><td>H de pie o S + H agachado.</td></tr><tr><td>Bajo: puño / patada</td><td>S + J / S + K</td><td>S + H. La patada baja quita vida, sin derribar.</td></tr><tr><td>Descendente</td><td>U</td><td>H de pie. Vence el bloqueo agachado.</td></tr><tr><td>Aéreo: puño / patada</td><td>W, luego J / K</td><td>H de pie o aléjate. A + W / D + W salta en diagonal.</td></tr><tr><td>Especial / super</td><td>L / I</td><td>Bloqueo medio; el super requiere 100 de energía.</td></tr></tbody></table><p>Salto neutro, caída y patada aérea tienen poses diferentes. La cámara sigue a los dos luchadores y abre el plano cuando se separan.</p><p><b>Esquive:</b> doble toque en ← o → (A A / D D; con mando, dos toques de cruceta o stick) lanza un dash. Eres invulnerable los primeros 0,16 s, así que atraviesa poderes y golpes; después hay 0,6 s de espera. <b>Rodada / voltereta:</b> agáchate (S / ↓) y da doble toque hacia el rival (S + D D). Lancha se hace bola y rueda; El Fiel hace una voltereta de atleta. Pasas por debajo o por encima y caes a su espalda, invulnerable unos 0,3-0,4 s; después hay 1 s de espera. Con el rival lejos o en dirección contraria, ruedas unos 230 px. <b>Doble salto:</b> pulsa saltar otra vez en el aire (W W / ↑ ↑ / ✕ ✕), cuando quieras y también tras una patada aérea. Subes casi el doble de alto. Sin dirección subes recto; con ← o → te mueves hacia ese lado, y si es hacia el rival y está cerca, pasas por encima y caes a su espalda. Durante el salto no hay empuje entre cuerpos. <b>Poderes a distancia:</b> viajan a la altura de la cintura; salta justo antes de que lleguen o bloquéalos, de pie o agachado.</p><p>Al activar un super, la pelea y el reloj se detienen durante un acercamiento de 0,68 segundos. Después continúa la acción con oscuridad, aura y rayos de fondo. Puedes cambiar a <b>FX suaves</b> para reducir el acercamiento y desactivar rayos y sacudidas.</p><p>Los ataques tienen preparación, impacto y recuperación. Pulsa de nuevo para otro golpe; mantener el botón no repite ataques. Los normales bloqueados no quitan vida.</p><p><b>Elegir personajes:</b> en el menú hay dos filas, una para ti y otra para el rival (en 2 jugadores se llama Jugador 2; también hay "Al azar"). Con ratón, haz clic en la tarjeta. Con teclado, ← → eliges tú y Q E el rival. Con mando, ◀ ▶ eliges tú y L2 / R2 (o SHARE) el rival.</p><p><b>Kent:</b> equilibrado, con patadas de fuego. Especial: onda de fuego a distancia. Super: patada ígnea con aura roja. Su voltereta usa las poses del salto mortal.</p><p><b>Pingordy:</b> camisa roja y corbata. Especial: onda de medialuna que lanza con una patada. Super: tornado espiral. Su rodada es un tornado.</p><p><b>Lancha</b> tiene poses propias de salto: al hacer el doble salto sale disparado en picada y aterriza de panza.</p><p><b>Jugador 2:</b> flechas para mover, saltar y agacharse. Teclado numérico: 1 alto, 2 medio, 3 especial, 0 super, 4 defender, 5 descendente.</p><p><b>Mando (Xbox / PlayStation):</b> stick o cruceta para mover; abajo agacha y arriba salta. A/✕ salto · X/□ alto · B/○ medio · Y/△ especial · LB/L1 o LT/L2 defensa · RB/R1 super · RT/R2 descendente. Mantén abajo + X/□ o B/○ para ataques bajos. El primer mando conectado es el Jugador 1 y el segundo el Jugador 2. Start/OPTIONS pausa; en la pausa, Back/SHARE vuelve al menú. Si el mando no responde, pulsa un botón con la página enfocada.</p></details>
+<div class="touch"><div><button data-key="KeyA" aria-label="Izquierda">◀</button><button data-key="KeyD" aria-label="Derecha">▶</button><button data-key="KeyW" aria-label="Saltar">↑</button><button data-key="KeyS" aria-label="Agacharse">↓</button><button data-key="KeyH" aria-label="Bloquear">🛡</button></div><div><button data-key="KeyJ">ALTO</button><button data-key="KeyK">MEDIO</button><button data-key="KeyU">↓ GOLPE</button><button data-key="KeyL">ESP</button><button data-key="KeyI">SUPER</button><button data-key="KeyO">RECARGA</button></div></div>
+<details class="guide"><summary>Guía de combate y práctica</summary><div class="practice"><label>Rival de entrenamiento <select id="trainingGuard"><option value="idle">Quieto</option><option value="stand">Bloqueo de pie</option><option value="crouch">Agachado sin defensa</option><option value="lowguard">Bloqueo agachado</option><option value="jump">Saltando</option></select></label><label><input type="checkbox" id="hitboxes"> Mostrar zonas de impacto</label></div><table><thead><tr><th>Ataque</th><th>Jugador 1</th><th>Cómo defenderlo</th></tr></thead><tbody><tr><td>Alto: puño</td><td>J</td><td>H de pie, o agáchate con S para esquivarlo.</td></tr><tr><td>Medio: patada</td><td>K</td><td>H de pie o S + H agachado.</td></tr><tr><td>Bajo: puño / patada</td><td>S + J / S + K</td><td>S + H. La patada baja quita vida, sin derribar.</td></tr><tr><td>Descendente</td><td>U</td><td>H de pie. Vence el bloqueo agachado.</td></tr><tr><td>Aéreo: puño / patada</td><td>W, luego J / K</td><td>H de pie o aléjate. A + W / D + W salta en diagonal.</td></tr><tr><td>Especial / super</td><td>L / I</td><td>Bloqueo medio; el super requiere 100 de energía.</td></tr></tbody></table><p>Salto neutro, caída y patada aérea tienen poses diferentes. La cámara sigue a los dos luchadores y abre el plano cuando se separan.</p><p><b>Esquive:</b> doble toque en ← o → (A A / D D; con mando, dos toques de cruceta o stick) lanza un dash. Eres invulnerable los primeros 0,16 s, así que atraviesa poderes y golpes; después hay 0,6 s de espera. <b>Rodada / voltereta:</b> agáchate (S / ↓) y da doble toque hacia el rival (S + D D). Lancha se hace bola y rueda; El Fiel hace una voltereta de atleta. Pasas por debajo o por encima y caes a su espalda, invulnerable unos 0,3-0,4 s; después hay 1 s de espera. Con el rival lejos o en dirección contraria, ruedas unos 230 px. <b>Doble salto:</b> pulsa saltar otra vez en el aire (W W / ↑ ↑ / ✕ ✕), cuando quieras y también tras una patada aérea. Subes casi el doble de alto. Sin dirección subes recto; con ← o → te mueves hacia ese lado, y si es hacia el rival y está cerca, pasas por encima y caes a su espalda. Durante el salto no hay empuje entre cuerpos. <b>Poderes a distancia:</b> viajan a la altura de la cintura; salta justo antes de que lleguen o bloquéalos, de pie o agachado.</p><p>Al activar un super, la pelea y el reloj se detienen durante un acercamiento de 0,68 segundos. Después continúa la acción con oscuridad, aura y rayos de fondo. Puedes cambiar a <b>FX suaves</b> para reducir el acercamiento y desactivar rayos y sacudidas.</p><p>Los ataques tienen preparación, impacto y recuperación. Pulsa de nuevo para otro golpe; mantener el botón no repite ataques. Los normales bloqueados no quitan vida.</p><p><b>Recarga de energía:</b> mantén O (Jugador 2: 6 del teclado numérico; mando: LT / L2) quieto en el suelo. Tras un instante de preparación ganas unos 20 de energía por segundo, pero quedas expuesto: un golpe te interrumpe. Se corta al soltar, al moverte, agacharte, defender o saltar; con la barra llena la animación sigue mientras mantengas el botón. Cada personaje tiene su animación: Lancha se come una hamburguesa.</p><p><b>Elegir personajes:</b> en el menú hay dos filas, una para ti y otra para el rival (en 2 jugadores se llama Jugador 2; también hay "Al azar"). Con ratón, haz clic en la tarjeta. Con teclado, ← → eliges tú y Q E el rival. Con mando, ◀ ▶ eliges tú y L2 / R2 (o SHARE) el rival.</p><p><b>Kent:</b> equilibrado, con patadas de fuego. Especial: onda de fuego a distancia. Super: patada ígnea con aura roja. Su voltereta usa las poses del salto mortal.</p><p><b>Pingordy:</b> camisa roja y corbata. Especial: onda de medialuna que lanza con una patada. Super: tornado espiral. Su rodada es un tornado y su dash es el paso lunar de Michael Jackson: se desliza mirando al rival con los pasos al revés, más lento que el dash normal.</p><p><b>Lancha</b> tiene poses propias de salto: al hacer el doble salto sale disparado en picada y aterriza de panza.</p><p><b>Jugador 2:</b> flechas para mover, saltar y agacharse. Teclado numérico: 1 alto, 2 medio, 3 especial, 0 super, 4 defender, 5 descendente.</p><p><b>Mando (Xbox / PlayStation):</b> stick o cruceta para mover; abajo agacha y arriba salta. A/✕ salto · X/□ alto · B/○ medio · Y/△ especial · LB/L1 defensa · LT/L2 recarga · RB/R1 super · RT/R2 descendente. Mantén abajo + X/□ o B/○ para ataques bajos. El primer mando conectado es el Jugador 1 y el segundo el Jugador 2. Start/OPTIONS pausa; en la pausa, Back/SHARE vuelve al menú. Si el mando no responde, pulsa un botón con la página enfocada.</p></details>
 </main><script src="game-v4.js"></script></body></html>

diff --git a/docs/ARTE.md b/docs/ARTE.md
@@ -83,3 +83,21 @@ Faltan poses y usan la más cercana: el golpe descendente usa el puño, el agach
 # Salto de Lancha
 
 `assets/lancha-jump.png` trae cinco cuadros recortados de una hoja de salto: agacharse, subida con el puño en alto, picada en el aire, aterrizaje de panza y caída. Se usan en el salto normal (subida y caída), el doble salto (picada y aterrizaje de panza) y el aterrizaje (agacharse). Los ataques en el aire y el resto de sus poses siguen usando el atlas original.
+
+---
+
+# Paso lunar de Pingordy
+
+El dash de Pingordy no usa cuadros nuevos: reutiliza los tres pasos de caminar (`walkA`, `walkC`, `walkB`, el segundo se añadió al atlas). Se desliza más lento que el dash normal, mirando al rival, con los pasos en orden normal al ir hacia atrás y al revés al ir hacia delante, una leve inclinación hacia atrás, un pequeño rebote y estela. Los valores propios están en `DASH_CHAR` de `game-v4.js`. Para un paso lunar más fiel haría falta una hoja con la punta del pie y el pie plano alternados.
+
+# Estándar de poses
+
+El archivo `D:\imagenes videojuego\Movimimientos standar.txt` define el conjunto de poses que debe tener cada personaje: reposo (2), caminar (3), agacharse, salto, caída del salto, bloqueo, recarga de energía (2), golpe básico alto (3), dos ataques especiales (3 cada uno), ulti (4), daño recibido, derribo (2) y victoria (2).
+
+---
+
+# Recarga de Lancha
+
+`assets/lancha-charge.png` trae cuatro cuadros recortados de una hoja con fondo magenta: agarra la hamburguesa, muerde, mastica con la mano en la barriga y sube los brazos con destellos. Durante la recarga se muestra primero el primero y luego se repiten morder, masticar y subir los brazos. Posiciones en `LC_ATLAS` de `game-v4.js`.
+
+Kent usa sus dos cuadros de puños con grito (los mismos del golpe descendente) y Pingordy sus dos cuadros de carga con llamas y aura (los mismos de la presentación). El Fiel todavía no tiene cuadros propios de recarga y alterna sus poses de presentación. Con la barra llena la animación continúa mientras se mantiene el botón. El aura y las partículas se dibujan por código con el color de cada personaje.
